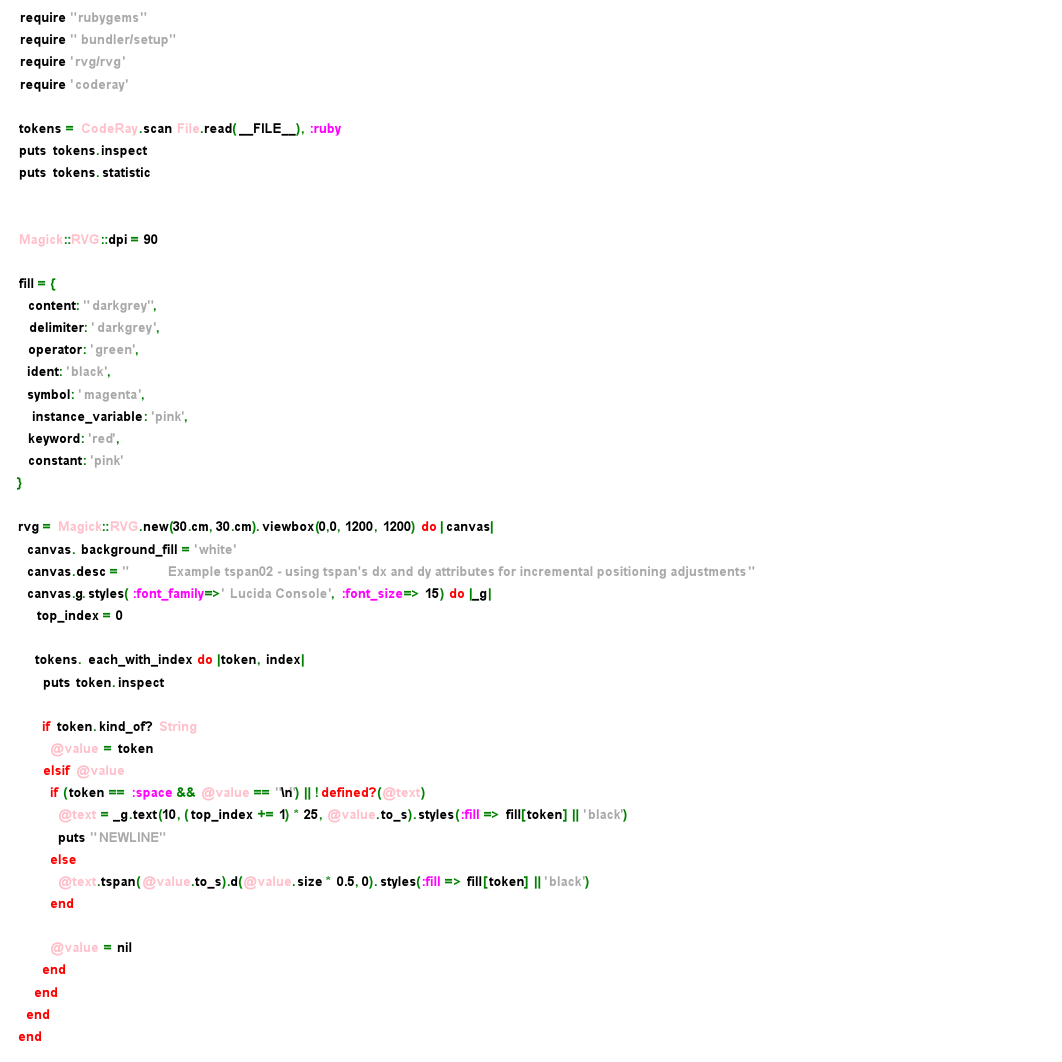
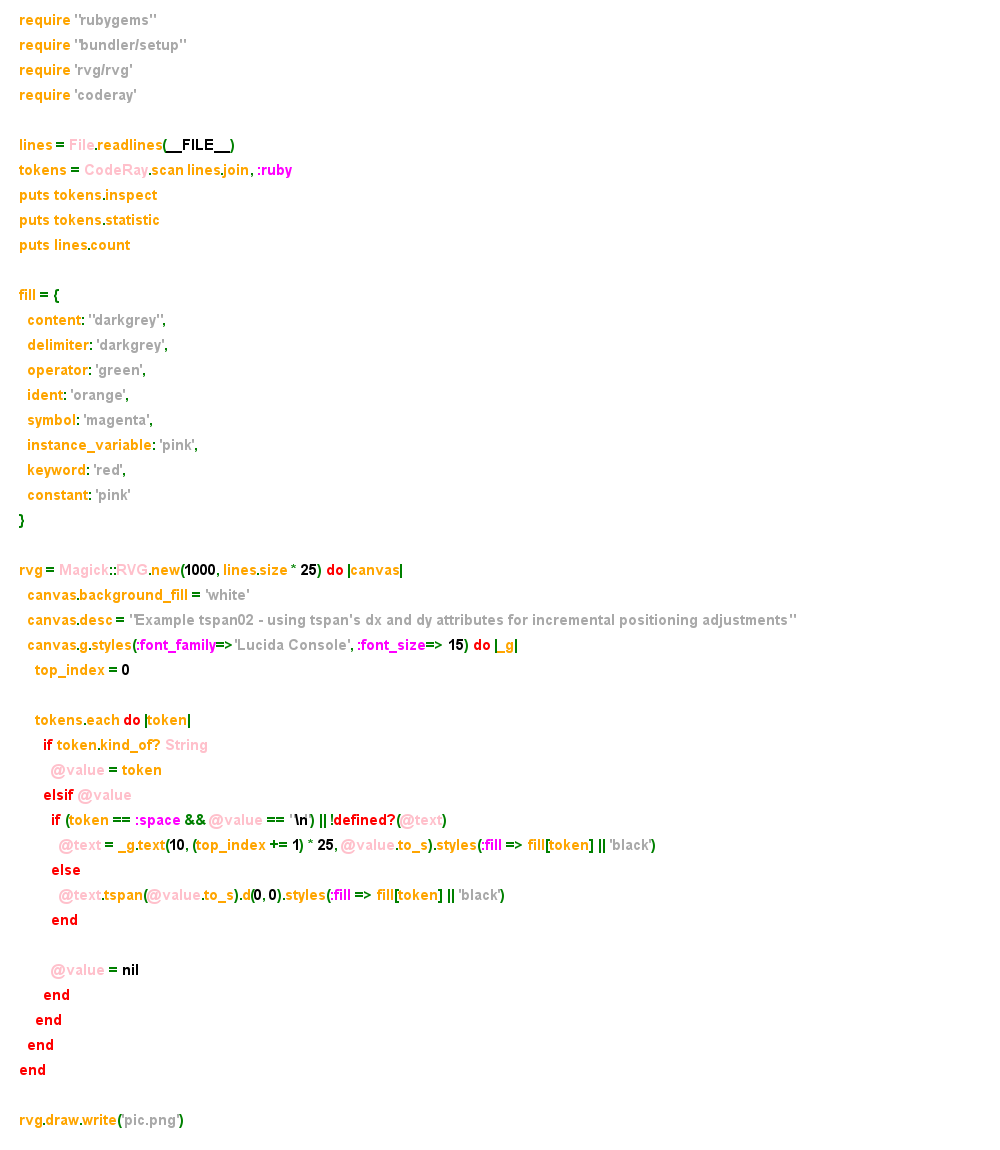
more stuff

diff --git a/pics.rb b/pics.rb
@@ -4,41 +4,37 @@ require "bundler/setup"
 require 'rvg/rvg'
 require 'coderay'
 
-tokens = CodeRay.scan File.read(__FILE__), :ruby
+lines = File.readlines(__FILE__)
+tokens = CodeRay.scan lines.join, :ruby
 puts tokens.inspect
 puts tokens.statistic
-
-
-Magick::RVG::dpi = 90
+puts lines.count
 
 fill = {
   content: "darkgrey",
   delimiter: 'darkgrey',
   operator: 'green',
-  ident: 'black',
+  ident: 'orange',
   symbol: 'magenta',
   instance_variable: 'pink',
   keyword: 'red',
   constant: 'pink'
 }
 
-rvg = Magick::RVG.new(30.cm, 30.cm).viewbox(0,0, 1200, 1200) do |canvas|
+rvg = Magick::RVG.new(1000, lines.size * 25) do |canvas|
   canvas.background_fill = 'white'
   canvas.desc = "Example tspan02 - using tspan's dx and dy attributes for incremental positioning adjustments"
   canvas.g.styles(:font_family=>'Lucida Console', :font_size=> 15) do |_g|
     top_index = 0
 
-    tokens.each_with_index do |token, index|
-      puts token.inspect
-
+    tokens.each do |token|
       if token.kind_of? String
         @value = token
       elsif @value
         if (token == :space && @value == "\n") || !defined?(@text)
           @text = _g.text(10, (top_index += 1) * 25, @value.to_s).styles(:fill => fill[token] || 'black')
-          puts "NEWLINE"
         else
-          @text.tspan(@value.to_s).d(@value.size * 0.5, 0).styles(:fill => fill[token] || 'black')
+          @text.tspan(@value.to_s).d(0, 0).styles(:fill => fill[token] || 'black')
         end
 
         @value = nil
